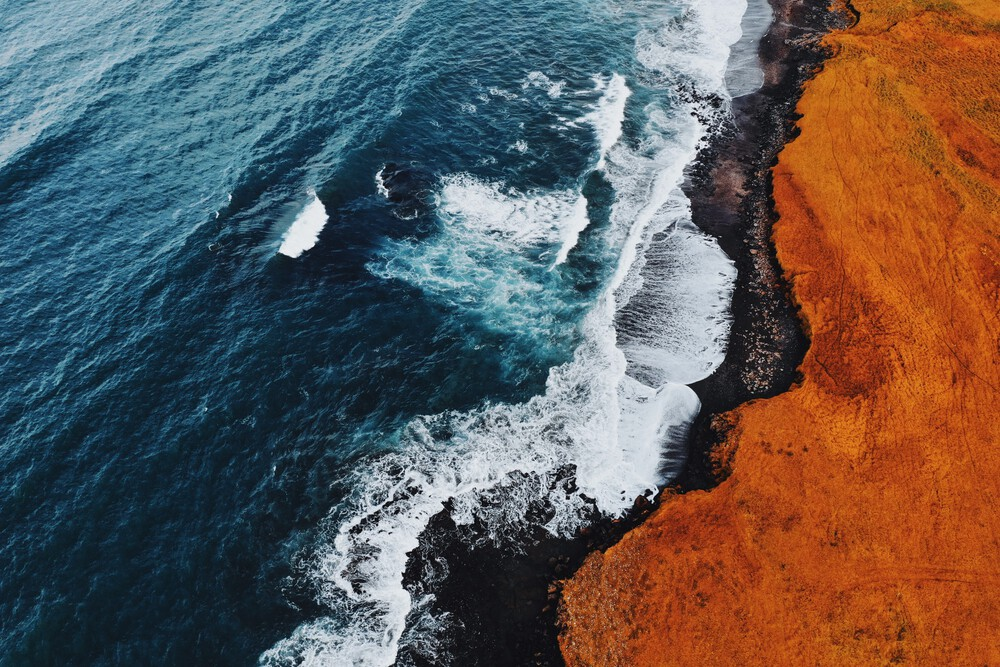
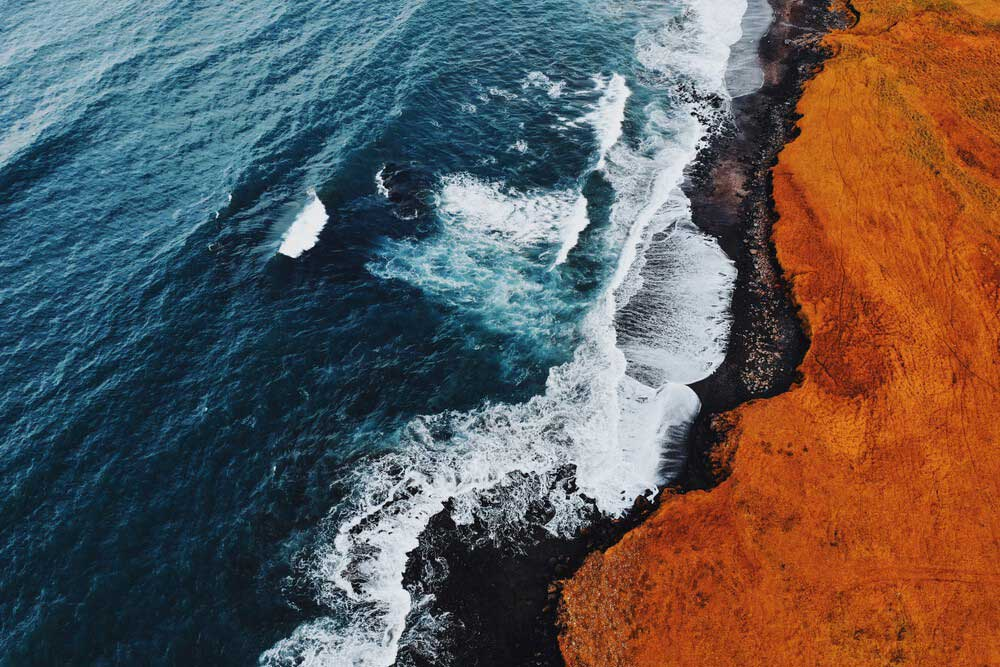
ft(sigin): implement signin functionality
- create signin component
- create auth context
- create auth reducer
- create auth action types and actions
- add styling
- change image size and color

diff --git a/src/components/Signin/Signin.component.js b/src/components/Signin/Signin.component.js
@@ -1,0 +1,94 @@
+import React, { Fragment, useState, useContext } from 'react';
+
+import AuthContainer from '../hoc/AuthContainer.component';
+import { AuthContext } from '../../context/Auth.context';
+import signinUser from '../../actions/auth.action';
+
+import './Signin.styles.scss';
+
+const Signin = () => {
+  const initialState = {
+    email: '',
+    password: '',
+    loading: '',
+  };
+
+  const [signinState, setSigninState] = useState(initialState);
+  const { dispatch, authState } = useContext(AuthContext);
+  const {
+    email, password, loading,
+  } = signinState;
+
+  const handleInputChange = (event) => {
+    setSigninState({
+      ...signinState,
+      [event.target.name]: event.target.value,
+    });
+  };
+
+  const handleSignin = (e) => {
+    e.preventDefault();
+    signinUser(dispatch, { email, password });
+  };
+
+  return (
+    <Fragment>
+      <AuthContainer>
+        <form
+          method="POST"
+          onSubmit={handleSignin}
+          className="auth-form signup-form"
+          autofill="false"
+        >
+          <p className="input-group">
+            <input
+              type="email"
+              name="email"
+              id="email"
+              placeholder="Email"
+              value={email}
+              onChange={handleInputChange}
+              required
+            />
+            <label htmlFor="email">Email</label>
+          </p>
+          <p className="input-group">
+            <input
+              type="password"
+              name="password"
+              id="password"
+              placeholder="Password"
+              value={password}
+              onChange={handleInputChange}
+              required
+            />
+            <label htmlFor="password">Password</label>
+          </p>
+          <p className="submit-action">
+            <a href="/signup" className="btn btn-blue-outline">
+          Signup
+            </a>
+            <button
+              type="submit"
+              className="btn btn-blue"
+              disabled={loading}
+              role="signin"
+            >
+              {loading ? 'Loading...' : 'Signin'}
+            </button>
+          </p>
+          <p className="error-msg">{authState.errorMsg}</p>
+        </form>
+        <div className="auth-page-message">
+          <p className="auth-welcome-text">
+            Welcome <span className="app-name">Sage</span>!!! We have been expecting you.
+          </p>
+          <p className="auth-signup message">
+            Please <strong>Signin</strong> to share your wisdom.
+          </p>
+        </div>
+      </AuthContainer>
+    </Fragment>
+  );
+};
+export default Signin;

diff --git a/src/components/App.js b/src/components/App.js
@@ -1,8 +1,12 @@
 import React, { Component, Fragment } from 'react';
 import { Route, Switch } from 'react-router-dom';
-import './App.scss';
+
 import LandingPage from './LandingPage/LandingPage.compoent';
 import Signup from './Signup/Signup.component';
+import Signin from './Signin/Signin.component';
+
+import './App.scss';
+import AuthContextProvider from '../context/Auth.context';
 
 /**
  * @class App
@@ -15,12 +19,15 @@ class App extends Component {
    */
   render() {
     return (
-      <Fragment>
-        <Switch>
-          <Route path='/' component={LandingPage} exact />
-          <Route path='/signup' component={Signup} exact />
-        </Switch>
-      </Fragment>
+      <AuthContextProvider>
+        <Fragment>
+          <Switch>
+            <Route path="/" component={LandingPage} exact />
+            <Route path="/signup" component={Signup} exact />
+            <Route path="/signin" component={Signin} exact />
+          </Switch>
+        </Fragment>
+      </AuthContextProvider>
     );
   }
 }

diff --git a/src/components/__tests__/Signup.test.js b/src/components/__tests__/Signup.test.js
@@ -1,5 +1,7 @@
 import React from 'react';
-import { render, cleanup, fireEvent } from '@testing-library/react';
+import {
+  render, cleanup, fireEvent, /* wait */
+} from '@testing-library/react';
 import '@testing-library/jest-dom/extend-expect';
 import Signup from '../Signup/Signup.component';
 
@@ -13,7 +15,7 @@ describe('Signup component', () => {
     username: 'chrisis',
     password: 'gemfaith,1609#',
   };
-  const onSubmit = jest.fn();
+  const onSubmit = jest.fn((e) => e.preventDefault());
 
   it('should submit the form', async () => {
     const { getByLabelText, getByRole } = render(
@@ -41,6 +43,9 @@ describe('Signup component', () => {
     });
 
     fireEvent.click(getByRole(/signup/i));
-    // expect(onSubmit).toHaveBeenCalledTimes(1);
+    // await wait(() => {
+    //   expect(onSubmit).toHaveBeenCalledTimes(1);
+    //   expect(onSubmit).toHaveBeenCalledWith(...user);
+    // });
   });
 });

diff --git a/src/actions/auth.action.js b/src/actions/auth.action.js
@@ -1,0 +1,36 @@
+import Axios from 'axios';
+import { SIGNIN_START, SIGNIN_FAILURE, SIGNIN_SUCCESS } from './actionTypes';
+
+const signinStart = () => ({
+  type: SIGNIN_START,
+});
+
+const signinSuccess = (payload) => ({
+  type: SIGNIN_SUCCESS,
+  payload,
+});
+
+const signinFailure = (payload) => ({
+  type: SIGNIN_FAILURE,
+  payload,
+});
+
+const signinUser = async (dispatch, userObject) => {
+  dispatch(signinStart());
+  try {
+    const user = await Axios.post(`${process.env.API_BASE_URL}/auth/signin`, {
+      ...userObject,
+    });
+
+    if (user) {
+      const { token } = user.data;
+      localStorage.setItem('token', token);
+      dispatch(signinSuccess(token));
+      window.location.href = '/';
+    }
+  } catch (error) {
+    dispatch(signinFailure(error));
+  }
+};
+
+export default signinUser;

diff --git a/src/reducers/auth.reducer.js b/src/reducers/auth.reducer.js
@@ -1,0 +1,34 @@
+import {
+  SIGNIN_START,
+  SIGNIN_FAILURE,
+  SIGNIN_SUCCESS,
+} from '../actions/actionTypes';
+
+const authReducer = (state, action) => {
+  switch (action.type) {
+  case SIGNIN_START:
+    return { ...state, isLoading: true, isAuthenticated: false };
+  case SIGNIN_SUCCESS:
+    return {
+      ...state,
+      isLoading: false,
+      response: action.payload,
+      errorMsg: null,
+      isAuthenticated: true,
+    };
+  case SIGNIN_FAILURE:
+    return {
+      ...state,
+      isLoading: false,
+      response: action.payload.response,
+      errorMsg: action.payload.response
+        ? action.payload.response.data.message
+        : 'Sorry, there was an error, please try again',
+      isAuthenticated: false,
+    };
+  default:
+    return state;
+  }
+};
+
+export default authReducer;

diff --git a/src/components/hoc/AuthContainer.styles.scss b/src/components/hoc/AuthContainer.styles.scss
@@ -23,9 +23,11 @@
     display: flex;
     flex-direction: column;
     align-items: center;
+    margin-bottom: 20px;
   }
 
   .auth-form {
+    padding: 20px 0;
     display: flex;
     flex-direction: column;
     align-items: center;
@@ -47,7 +49,7 @@
 
   .auth-page-message {
     grid-row: 1;
-    margin-bottom: 20px;
+    margin:30px 0;
     text-align: center;
     padding: 10px 30px;
     font-weight: normal;
@@ -78,10 +80,10 @@
       display: flex;
       flex-direction: column;
       height: 100vh;
-      margin: 0;
-      justify-content: center;
+      justify-content: start;
 
       .auth-welcome-text {
+        padding-top: 25vh;
         margin-bottom: 20px;
       }
     }

diff --git a/src/context/Auth.context.js b/src/context/Auth.context.js
@@ -1,0 +1,27 @@
+import React, { createContext, useReducer } from 'react';
+import PropTypes from 'prop-types';
+import authReducer from '../reducers/auth.reducer';
+
+export const AuthContext = createContext();
+const initialState = {
+  isLoading: false,
+  response: null,
+  errorMsg: null,
+  isAuthenticated: false,
+};
+
+const AuthContextProvider = (props) => {
+  const [authState, dispatch] = useReducer(authReducer, initialState);
+
+  return (
+    <AuthContext.Provider value={{ authState, dispatch }}>
+      {props.children}
+    </AuthContext.Provider>
+  );
+};
+
+AuthContextProvider.propTypes = {
+  children: PropTypes.any,
+};
+
+export default AuthContextProvider;

diff --git a/server.js b/server.js
@@ -1,0 +1,16 @@
+const path = require('path');
+const express = require('express');
+
+const app = express();
+
+app.use(express.static(path.join(__dirname, '/dist')));
+
+app.get('*', (req, res) => {
+  res.sendFile('index.html', { root: path.join(__dirname, '/dist') });
+});
+
+const PORT = process.env.PORT || 8080;
+app.listen(PORT, () => {
+  // eslint-disable-next-line no-console
+  console.log(`App listening to Port ${PORT}....`);
+});

diff --git a/src/actions/actionTypes.js b/src/actions/actionTypes.js
@@ -1,0 +1,3 @@
+export const SIGNIN_START = 'SIGNIN_START';
+export const SIGNIN_SUCCESS = 'SIGNIN_SUCCESS';
+export const SIGNIN_FAILURE = 'SIGNIN_FAILURE';
